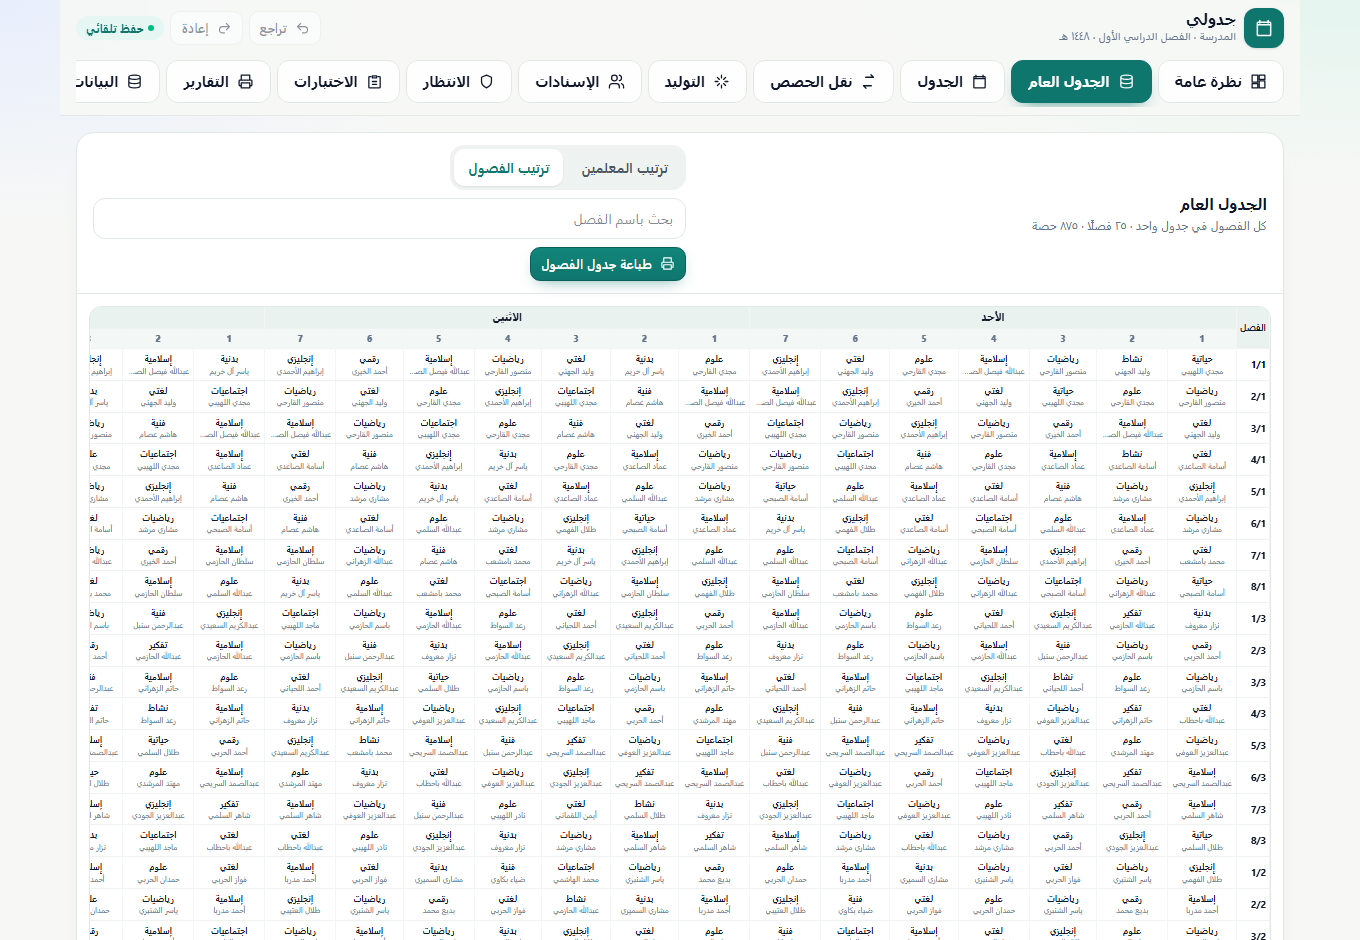
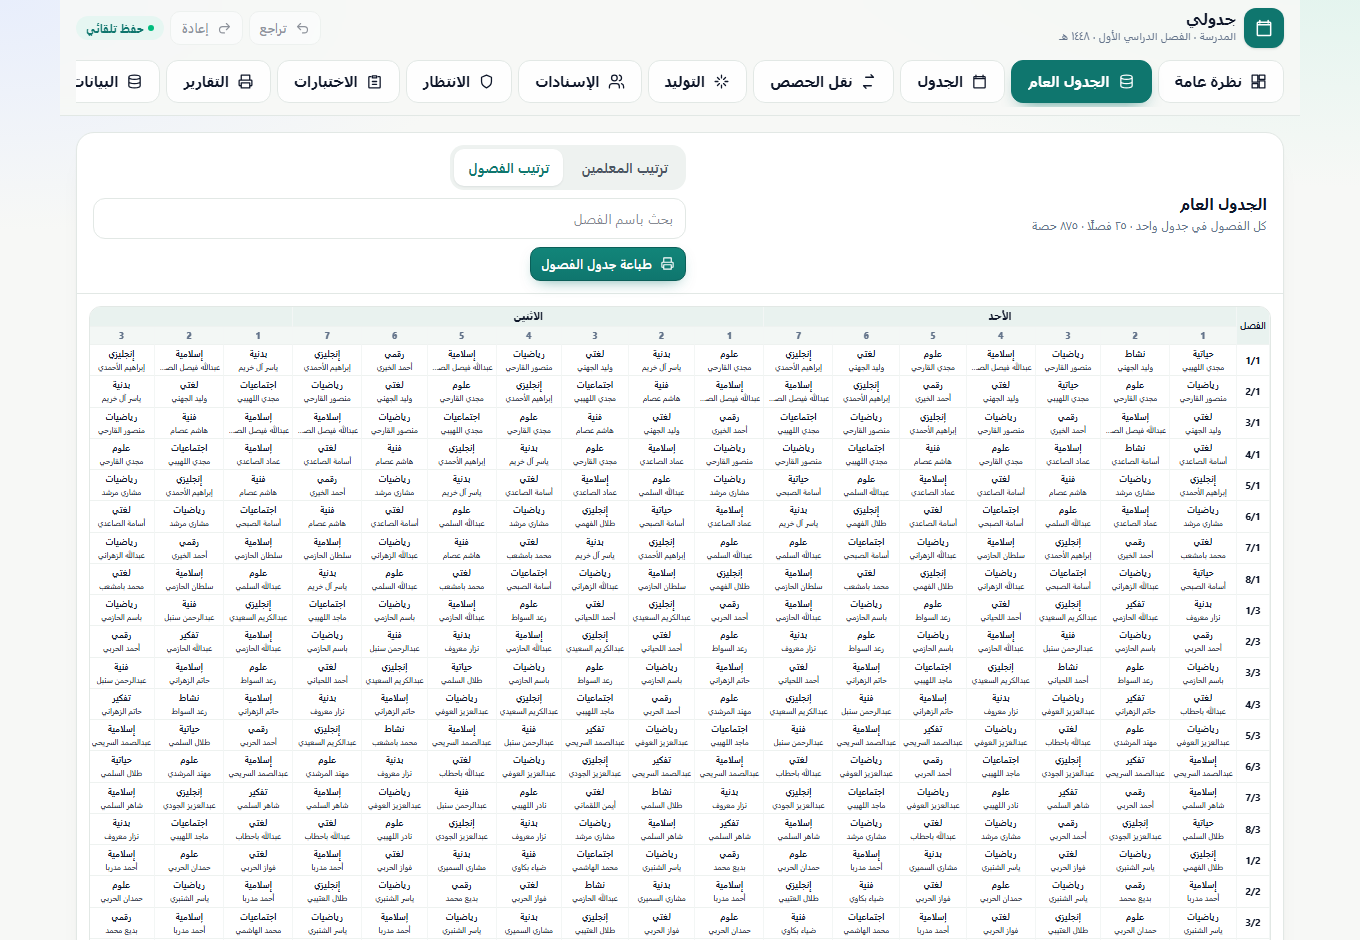
الجدول العام: زيادة المسافة بين المادة والاسم وجعل سطر الاسم أسود

Changed region(s): [[0.0618, 0.3702, 0.9265, 1.0], [0.3706, 0.3085, 0.4015, 0.3394]]

diff --git a/src/styles.css b/src/styles.css
@@ -156,8 +156,9 @@ body {
 
 .master-meta {
   display: block;
+  margin-top: 1.5px;
   font-size: 7.5px;
-  color: var(--muted);
+  color: #0b1220;
   max-width: 62px;
   overflow: hidden;
   text-overflow: ellipsis;
@@ -213,8 +214,9 @@ body {
 }
 
 .master-print .master-meta {
+  margin-top: 1.5px;
   font-size: 5px;
-  color: #334155;
+  color: #0b1220;
   line-height: 1;
   max-width: none;
 }
@@ -739,6 +741,7 @@ body {
     font-size: 11px;
   }
 }
+
 
 
 
